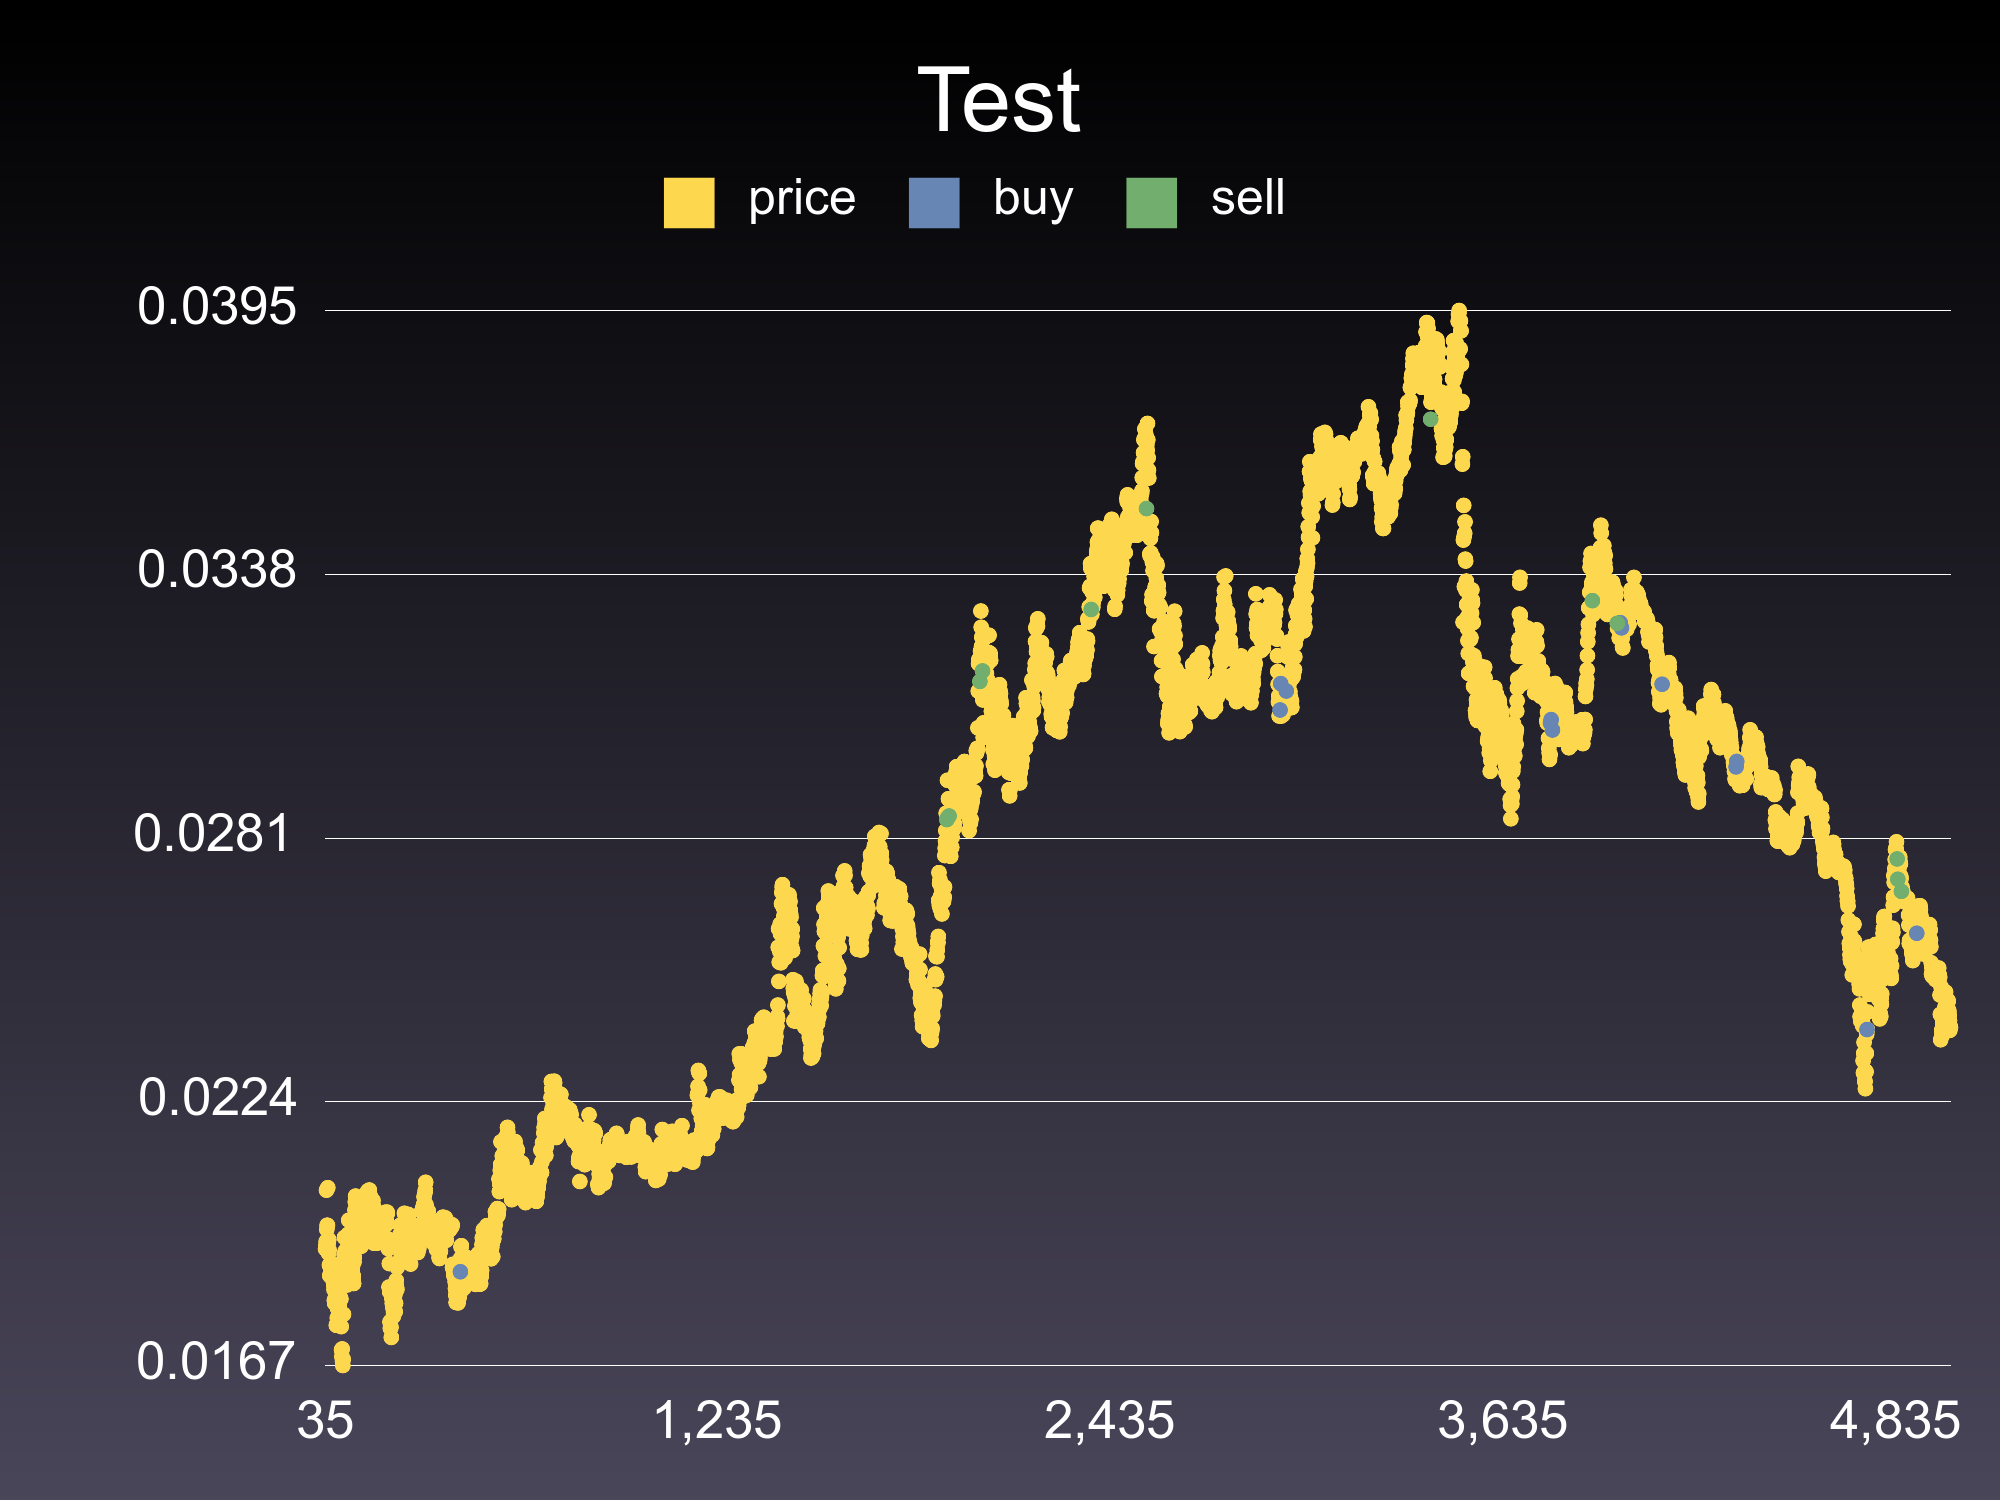
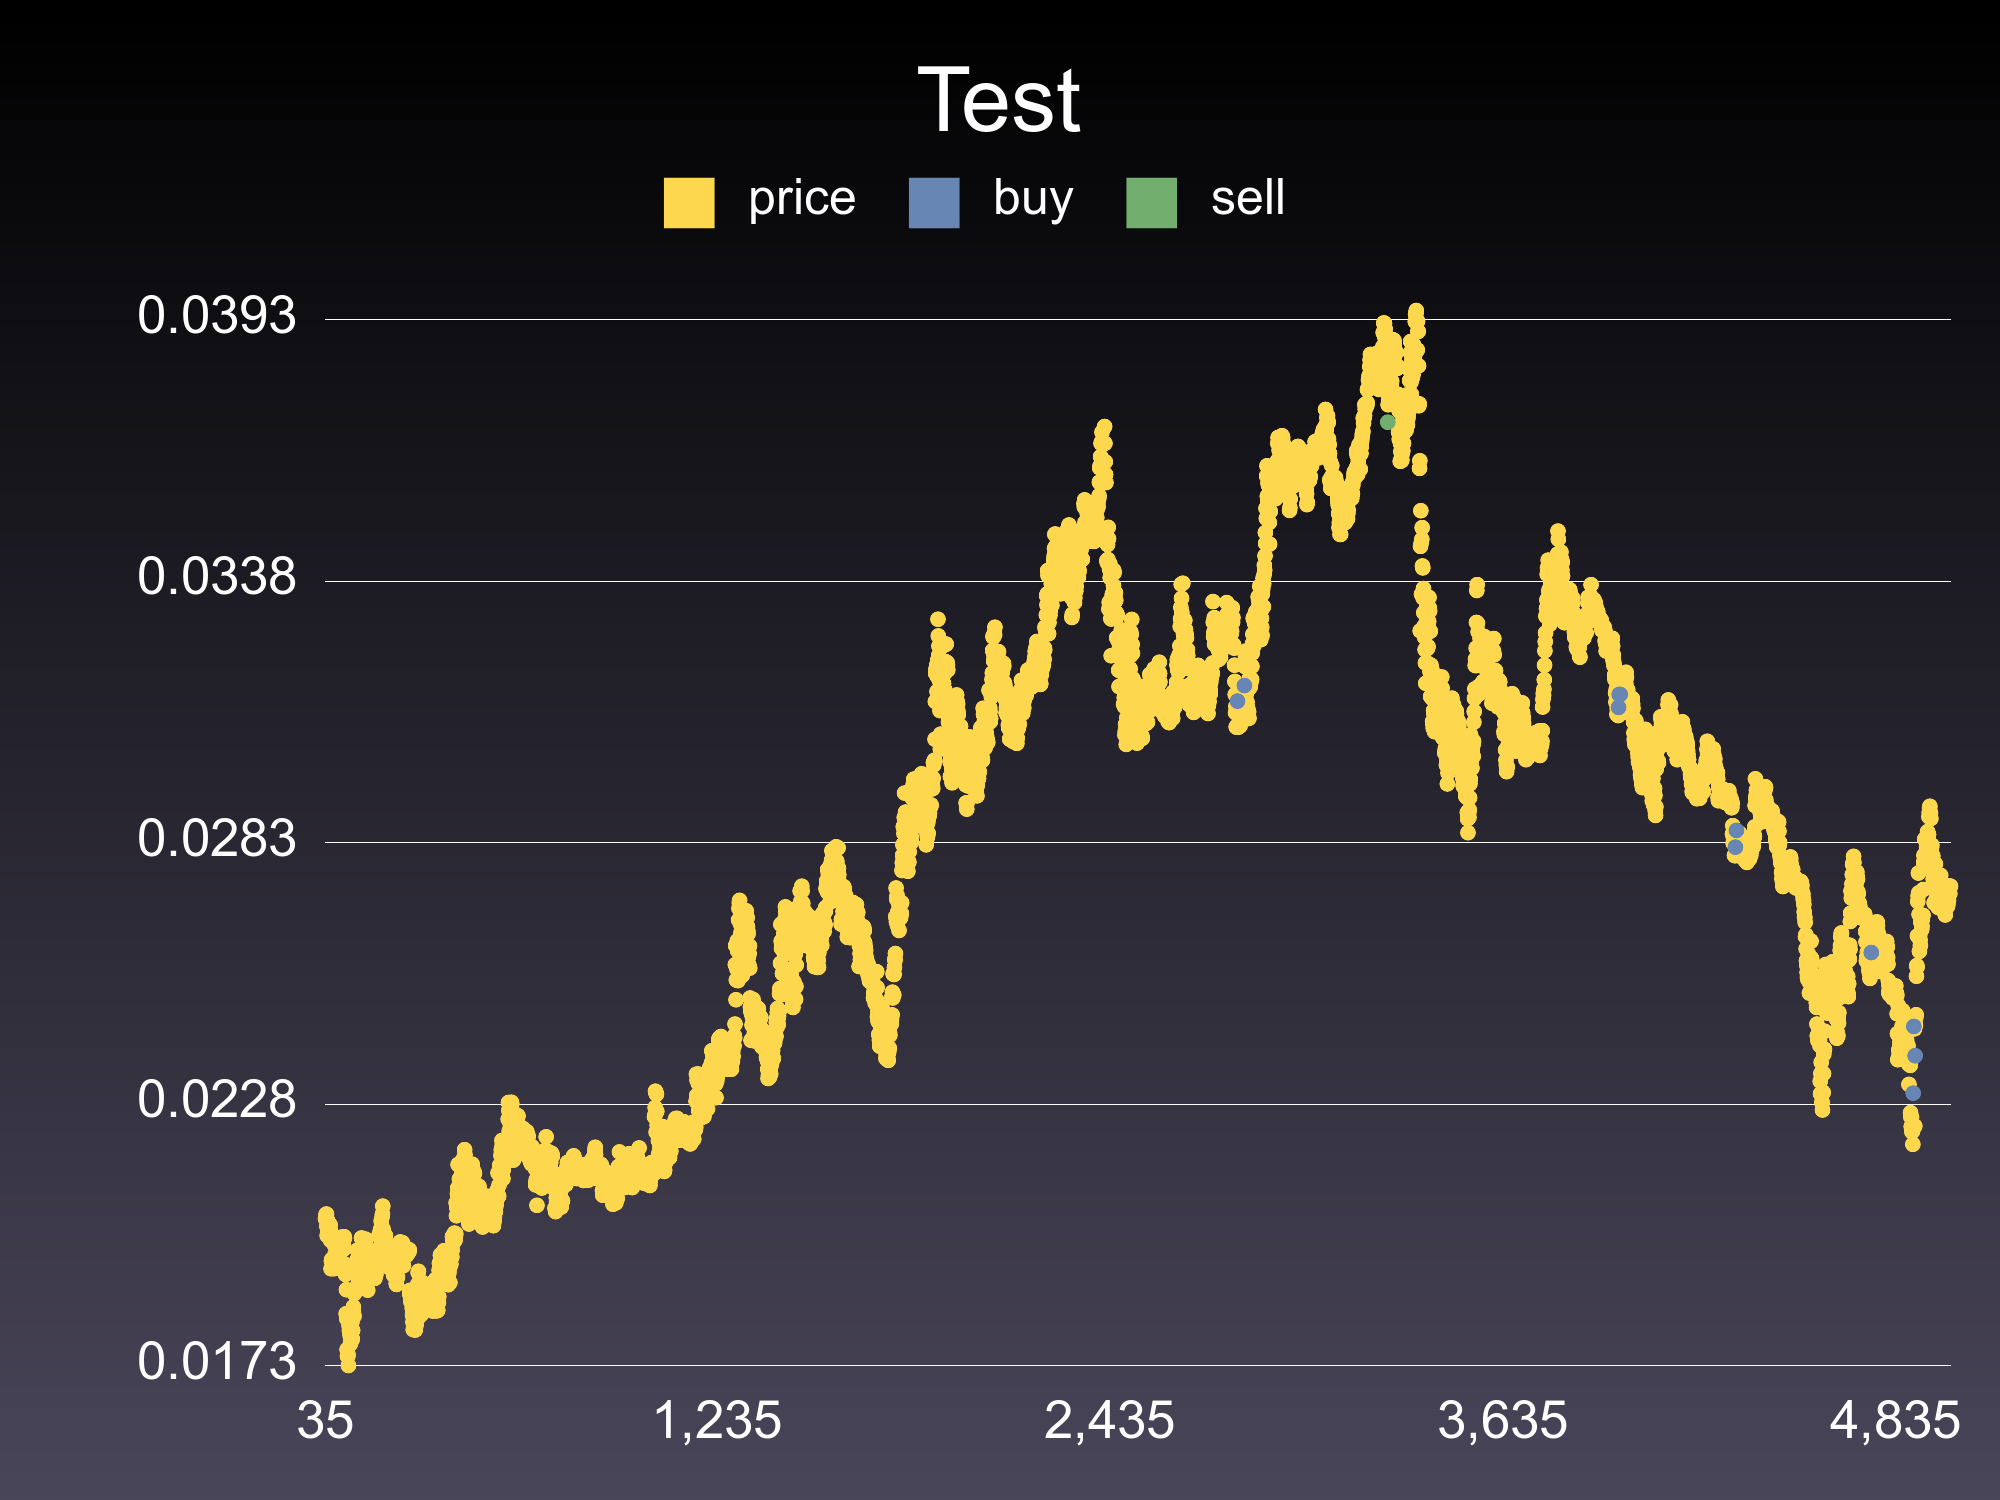
uped the buy amounts for ven/wtc

diff --git a/bot.rb b/bot.rb
@@ -164,7 +164,7 @@ class BinanceBot
 		  		closing_price = hash[:k][:c].to_f
 		  		if closing_price < sell_floor
 		  			trying_to_sell = false
-		  			trx_amount = (getAmount("TRX").to_f * 0.5).ceil
+		  			trx_amount = (getAmount("TRX").to_f * 0.75).ceil
 			  		if trx_amount > 0
 		  				# sell
 		  				create_order("TRXETH", "sell", "MARKET", trx_amount)
@@ -307,12 +307,13 @@ class BinanceBot
 		  		if closing_price > buy_ceiling
 		  			trying_to_buy = false
 		  			# make sure we have enough ETH to buy
-		  			eth_amount = getAmount("ETH").to_f * 0.01
+		  			eth_amount = getAmount("ETH").to_f * 0.02
 		  			if eth_amount > 0
 		  				puts "**** Buying VENETH @ #{closing_price} *****"
 
+		  				ven_amount = (eth_amount / closing_price).ceil
 		  				# create a buy order
-		  				create_order("VENETH", "buy", "MARKET", 2)
+		  				create_order("VENETH", "buy", "MARKET", ven_amount)
 
 		  				# log to database that we bought and its price
 		  				f = VenSetting.new(recently_bought: true, recently_bought_price: hash[:k][:c].to_f, trade_time: DateTime.now)
@@ -479,11 +480,12 @@ class BinanceBot
 		  		if closing_price > buy_ceiling
 		  			trying_to_buy = false
 		  			# make sure we have enough ETH to buy
-		  			eth_amount = getAmount("ETH").to_f * 0.01
+		  			eth_amount = getAmount("ETH").to_f * 0.02
 		  			if eth_amount > 0
 		  				puts "**** Buying WTCETH @ #{closing_price} *****"
+		  				wtc_amount = (eth_amount / closing_price).round(2)
 		  				# create a buy order
-		  				create_order("WTCETH", "buy", "MARKET", 2)
+		  				create_order("WTCETH", "buy", "MARKET", wtc_amount)
 
 		  				# log to database that we bought and its price
 		  				f = WtcSetting.new(recently_bought: true, recently_bought_price: hash[:k][:c].to_f, trade_time: DateTime.now)

diff --git a/rsi_algorithm.rb b/rsi_algorithm.rb
@@ -118,7 +118,7 @@ class RsiAlgorithm
 		end
 
 		if buy
-			if buyRsiToInspect.count > 1
+			if buyRsiToInspect.count > 2
 				# is it trending up? Then buy
 				xs = (1..buyRsiToInspect.count).map { |n| n }
 				# quad_regression_sign = regress(xs, buyRsiToInspect, 2).last
@@ -133,7 +133,7 @@ class RsiAlgorithm
 				{ crossed: true, sell: false, buy: false }
 			end
 		elsif sell
-			if sellRsiToInspect.count > 1
+			if sellRsiToInspect.count > 2
 				# is it trending down? Then sell
 				# average_slope = average_slope_of_array(sellRsiToInspect)
 				xs = (1..sellRsiToInspect.count).map { |n| n }
